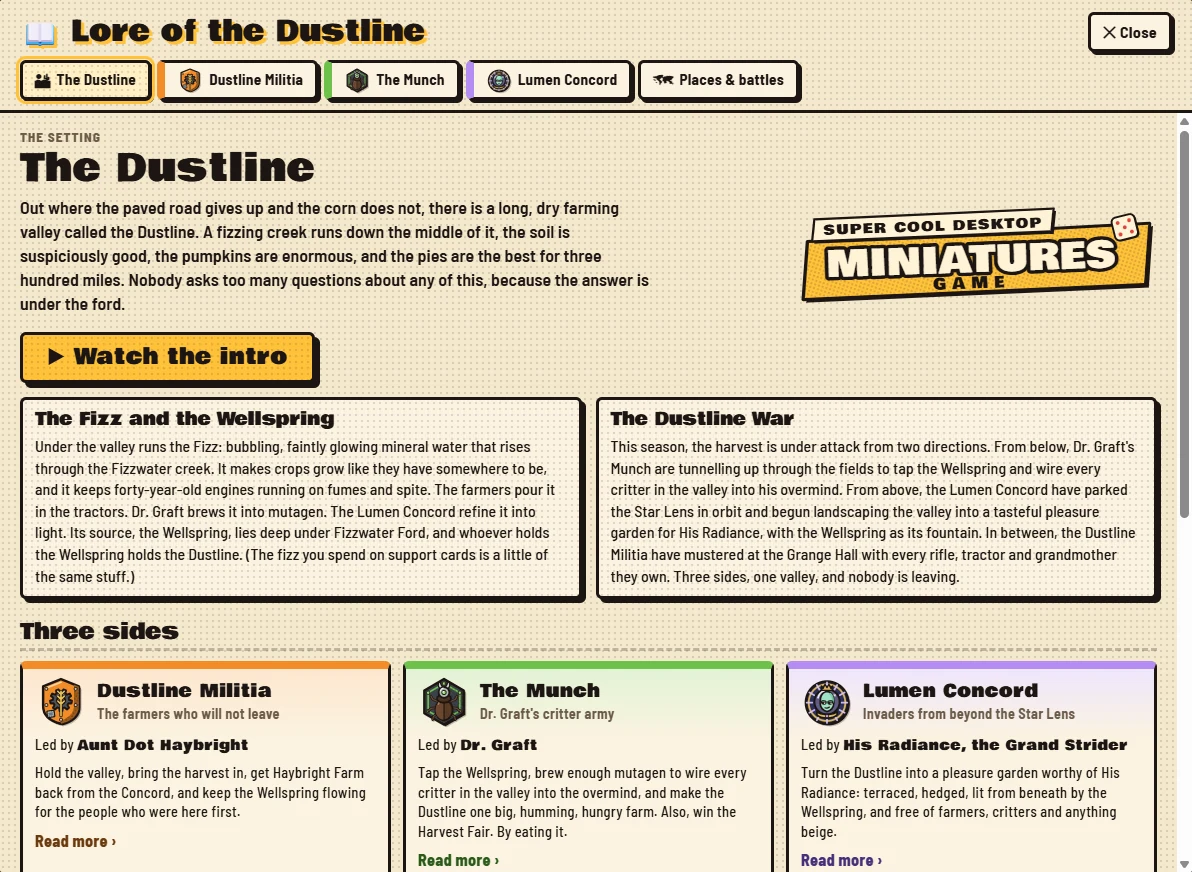
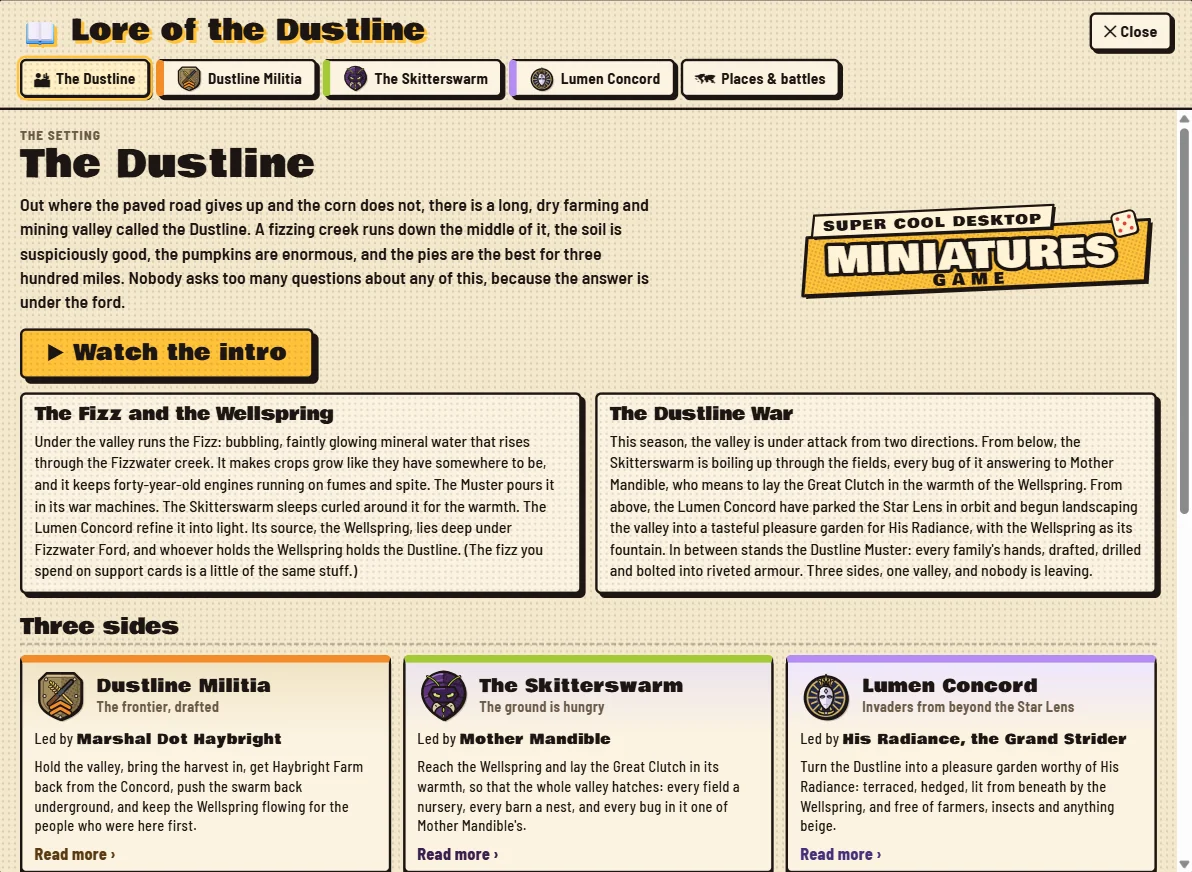
README and docs screenshots for v0.12
Retaken on the v0.12 build: main menu, campaign map (now against the
Skitterswarm), the Militia, Swarm and Concord intro panels, the lore pages,
the faction forge (a copy of the Munch template with its new Ink Rig art),
the battle shot (the card-bound Supports panel: 5 CP on ready cards, one
card burnt), the aim line, and the house rules panel (card-bound CP, class
limits and the evade rules are new there).

README: "New in v0.11" becomes "New in v0.12" (template art for every Forge
faction, card-bound CP, CP unit abilities, card-burning disruption, dice
buffs and debuffs, barrages, hide and burrow, properly random dice), with
the house rules list and alt text brought up to date.

Changed region(s): [[0.0, 0.0, 1.0, 1.0], [0.6518, 0.2167, 0.9622, 0.3716], [0.9002, 0.0, 0.9933, 0.0619]]

diff --git a/README.md b/README.md
@@ -9,28 +9,30 @@ It runs in the browser or as a portable Windows app. This is an original game: t
 
 Free and open source under the [GNU GPL v3 or later](LICENSE).
 
-![An Assault battle: the Dustline Militia (Big Bertha, Rivet Grunts, a Sky Rustler and a Haymaker Bomber) against the Lumen Concord, drawn in the Ink Rig miniature style, with the dice tray showing the Grand Strider's Prism Cannon hitting the Bomber for 2 damage](docs/images/battle.png)
+![An Assault battle: the Dustline Militia (Big Berthas, Rivet Grunts and more) against the Lumen Concord, drawn in the Ink Rig miniature style. Big Bertha's Thumper Cannon hits the Blink Dancers for 3 damage, and the Supports panel shows 5 CP on ready cards, with the Forward Airstrip card burnt till the round ends](docs/images/battle.png)
 
 **[▶ Play in your browser](https://ch-potter.github.io/SCDMG/)** · **[Download for Windows](https://github.com/CH-Potter/SCDMG/releases/latest)** · [Run it from source](#run-from-source) · [Rules](docs/rules.md) · [Lore](docs/lore.md)
 
 ## What's in it
 
-### New in v0.11: new miniatures, a new army, and tricks to master
+### New in v0.12: every army drawn, and CP you hold in your hand
 
-- **New miniatures.** Every unit of the three armies is redrawn on a new miniature engine, with walk cycles, recoil and wing beats. Pick the side-on **Ink Rig** style or the top-down **Overhead** style with the **Minis** button; Classic is still there.
-- **The Skitterswarm** replaces the Munch as the third army, and the **Dustline Militia** is now a drafted, armoured frontier army.
-- **Army slots:** units are Base, Support, Elite, Flyer or Static, inferred from their stats, and your faction and support cards decide how many of each your list can take (a house rule, on by default).
-- **Barrage markers:** mortars and other lobbed guns mark a spot in the movement phase, and it's shelled at the end of the assault phase, friend or foe. Move out, or don't charge in.
+- **Every Forge template has its own miniatures**, drawn in the **Ink Rig** style, now the default: the grimdark brotherhood, regiment, mob, kin, legion and cult; the fantasy elves, orcs, undead, dwarves, knights and druids; and the Munch.
+- **Card-bound CP.** Your CP is the CP on your ready support cards, and the Supports panel shows it ("✦ 5 CP on ready cards"). Spending CP burns a card until the round ends, abilities and all, and a payment dialog lets you pick which one.
+- **Unit abilities that cost CP**, and **disruption**: units that burn the enemy's dearest ready card for the round.
+- **Dice buffs and debuffs:** better or worse saves, evades, extra damage per hit, and more or fewer attack dice, from unit abilities and support cards.
+- **Barrage markers:** mortars and other lobbed guns mark a spot in the movement phase, and it's shelled at the end of the assault phase, friend or foe.
 - **Hide and seek:** Hidden units can only be picked out from close range until they attack; Swarm units can **burrow** and burst back up; detectors with **Keen Eyes** find both.
-- **Evade, rethought:** only small, agile units dodge, and they can dodge in a melee and against shells fired out of sight.
+- **Properly random dice** in live games, with Undo that still doesn't re-roll.
+- Still fresh from v0.11: every unit redrawn on the new miniature engine (Ink Rig, top-down Overhead or Classic, on the **Minis** button), the **Skitterswarm** as the third army, the drafted **Dustline Militia**, and **army slots**.
 
 ### New in v0.10: house rules, so you play it your way
 
-![The House rules panel in the main menu, with Morale, Breach dice, Overwatch and Random activation order switched on: core rules to switch off on the left, optional tabletop staples to switch on on the right](docs/images/house-rules.webp)
+![The House rules panel in the main menu, with Morale, Breach dice, Overwatch and Random activation order switched on: core rules to switch off on the left, from card-bound CP to shell scatter, optional tabletop staples to switch on on the right](docs/images/house-rules.webp)
 
 Every tabletop group plays a little differently. In the main menu, **step 5, House rules**, you tick the mechanics you want, and the AI plays by the same rules. Your choice is saved in your browser and applies to every battle, campaign included.
 
-- **Switch core mechanics off:** rolled charges, close ranks, supporting rank, evade rolls, stray shots into melee, impact on the charge, difficult terrain, units blocking line of fire, and shell scatter.
+- **Switch core mechanics off:** card-bound CP (bank it instead), unit class limits, evading in the scrum and against unseen shells, rolled charges, close ranks, supporting rank, evade rolls, stray shots into melee, impact on the charge, difficult terrain, units blocking line of fire, and shell scatter.
 - **Switch tabletop staples on:**
   - **Morale and Shaken:** battered units test their nerve.
   - **Breach dice:** anti-armour and anti-air weapons roll a d3 or d6 with the attack, and that many hits skip the save.
@@ -53,7 +55,7 @@ Each faction's design pillars are in [docs/factions.md](docs/factions.md).
 
 ### A tabletop that shows its working
 
-![Aim lines from a squad of Rivet Grunts to the Blink Dancers: one line is clear at 16.1 inches of 22, the rest are blocked by a raised platform](docs/images/aim-line.webp)
+![Aim lines from every model in a squad of Rivet Grunts to a Shimmer Saucer over the raised platform, 10.3 inches of 22, with the odds of the shot in a tooltip and the target's card alongside](docs/images/aim-line.webp)
 
 Select a unit and hover a target to see what would happen before you commit: aim lines from every model, the range, what blocks sight or gives cover, and the odds. Then roll. The dice tray can let you **throw your own dice**, roll them automatically, roll quickly or skip them. The dice are properly random, and Undo takes back your last command without re-rolling them: redo it and they land the same.
 
@@ -91,9 +93,9 @@ Comic-panel intro animations, drawn live with the game's own miniatures, introdu
 
 The **map builder** draws battlefields from platforms, buildings, walls, barricades, cover, ramps, ladders, spawn zones and objectives, with snapping, mirroring for symmetric boards, built-in checks and a play test. Start from a blank board or copy a built-in map.
 
-![The faction forge showing a codex: every unit with its miniature, stats and keywords](docs/images/faction-forge.webp)
+![The faction forge with a copy of the Munch template open: every unit and structure with its own Ink Rig miniature, stats and keywords](docs/images/faction-forge.webp)
 
-The **faction forge** shows every built-in faction's codex, and lets you copy one, start from one of 13 trope templates (armoured super-soldiers, a scrap-built warband, an undead legion, a knightly kingdom, the Munch and more; see [docs/factions.md](docs/factions.md#faction-forge-templates)), or start from scratch to make your own, with custom unit art. Costs, supply, upgrade costs and Fizz are worked out from what you build, with a breakdown (e.g. "⚙5 = body 2.4 + guns 1.2 + abilities 1"), so you can see what each stat, weapon and ability is worth.
+The **faction forge** shows every built-in faction's codex, and lets you copy one, start from one of 13 trope templates, each with its own miniatures (armoured super-soldiers, a scrap-built warband, an undead legion, a knightly kingdom, the Munch and more; see [docs/factions.md](docs/factions.md#faction-forge-templates)), or start from scratch to make your own, with custom unit art. Costs, supply, upgrade costs and Fizz are worked out from what you build, with a breakdown (e.g. "⚙5 = body 2.4 + guns 1.2 + abilities 1"), so you can see what each stat, weapon and ability is worth.
 
 ### Mouse or touch, browser or desktop
 
